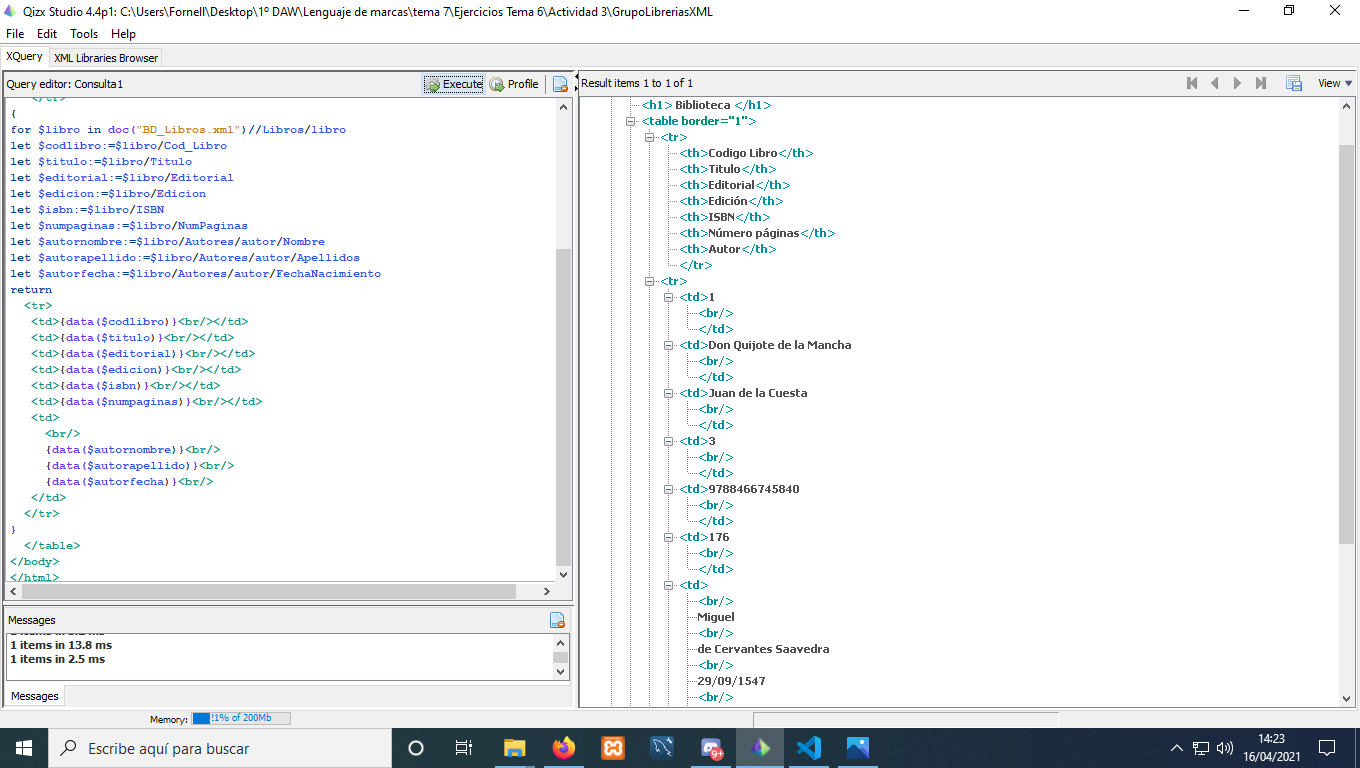
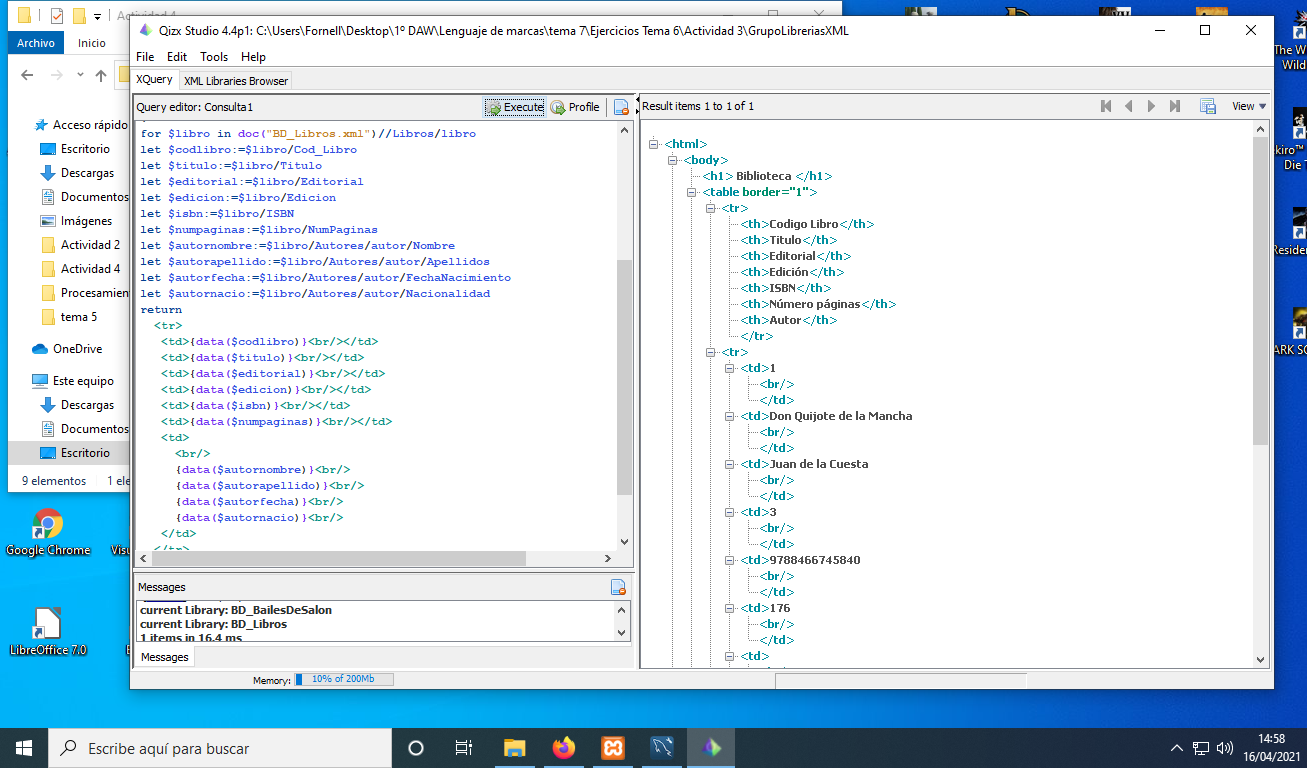
Revisión 4 JAFM- Actividades Tema 6

Changed region(s): [[0.0, 0.0, 1.0, 1.0]]

diff --git a/Actividad 4/Consulta1.html b/Actividad 4/Consulta1.html
@@ -20,7 +20,7 @@
             <td>3<br></td>
             <td>9788466745840<br></td>
             <td>176<br></td>
-            <td><br>Miguel<br>de Cervantes Saavedra<br>29/09/1547<br></td>
+            <td><br>Miguel<br>de Cervantes Saavedra<br>29/09/1547<br>España<br></td>
         </tr>
         <tr>
             <td>2<br></td>
@@ -29,7 +29,7 @@
             <td>1<br></td>
             <td>9788471664938<br></td>
             <td>320<br></td>
-            <td><br>Fernando<br>de Rojas<br>01/01/1470<br></td>
+            <td><br>Fernando<br>de Rojas<br>01/01/1470<br>España<br></td>
         </tr>
         <tr>
             <td>3<br></td>
@@ -38,7 +38,7 @@
             <td>1<br></td>
             <td>9788495787910<br></td>
             <td>174<br></td>
-            <td><br>Alex<br>Rovira Celma<br>01/03/1969<br></td>
+            <td><br>Alex<br>Rovira Celma<br>01/03/1969<br>España<br></td>
         </tr>
         <tr>
             <td>4<br></td>
@@ -47,7 +47,7 @@
             <td>1<br></td>
             <td>9788499700403<br></td>
             <td>412<br></td>
-            <td><br>Nieves<br>Concostrina<br>01/03/1961<br></td>
+            <td><br>Nieves<br>Concostrina<br>01/03/1961<br>España<br></td>
         </tr>
         <tr>
             <td>5<br></td>
@@ -56,7 +56,7 @@
             <td>1<br></td>
             <td>9788466324809<br></td>
             <td>272<br></td>
-            <td><br>Daniel<br>Glattauer<br>02/04/1960<br></td>
+            <td><br>Daniel<br>Glattauer<br>02/04/1960<br>Inglaterra<br></td>
         </tr>
         <tr>
             <td>6<br></td>
@@ -65,7 +65,7 @@
             <td>1<br></td>
             <td>9788483651469<br></td>
             <td>400<br></td>
-            <td><br>Erica<br>Bauermeister<br>25/5/1959<br></td>
+            <td><br>Erica<br>Bauermeister<br>25/5/1959<br>Inglaterra<br></td>
         </tr>
         <tr>
             <td>7<br></td>
@@ -74,7 +74,7 @@
             <td>1<br></td>
             <td>9788483833209<br></td>
             <td>400<br></td>
-            <td><br>John<br>Updike<br>28/7/1932<br></td>
+            <td><br>John<br>Updike<br>28/7/1932<br>Alemania<br></td>
         </tr>
         <tr>
             <td>8<br></td>
@@ -83,7 +83,7 @@
             <td>1<br></td>
             <td>9788401337529<br></td>
             <td>1136<br></td>
-            <td><br>Stephen<br>King<br>21/09/1947<br></td>
+            <td><br>Stephen<br>King<br>21/09/1947<br>America<br></td>
         </tr>
         <tr>
             <td>9<br></td>
@@ -92,7 +92,7 @@
             <td>1<br></td>
             <td>9788401347542<br></td>
             <td>448<br></td>
-            <td><br>Javier<br>Reverte<br>01/01/1944<br></td>
+            <td><br>Javier<br>Reverte<br>01/01/1944<br>España<br></td>
         </tr>
         <tr>
             <td>10<br></td>
@@ -101,7 +101,7 @@
             <td>1<br></td>
             <td>9788492981380<br></td>
             <td>320<br></td>
-            <td><br>Pierre<br>Dukan<br>02/09/1934<br></td>
+            <td><br>Pierre<br>Dukan<br>02/09/1934<br>Francia<br></td>
         </tr>
     </table>
 </body>

diff --git a/Actividad 4/Consulta2.html b/Actividad 4/Consulta2.html
@@ -20,7 +20,7 @@
             <td>1<br></td>
             <td>9788401337529<br></td>
             <td>1136<br></td>
-            <td><br>Stephen<br>King<br>21/09/1947<br></td>
+            <td><br>Stephen<br>King<br>21/09/1947<br>America<br></td>
         </tr>
     </table>
 </body>
